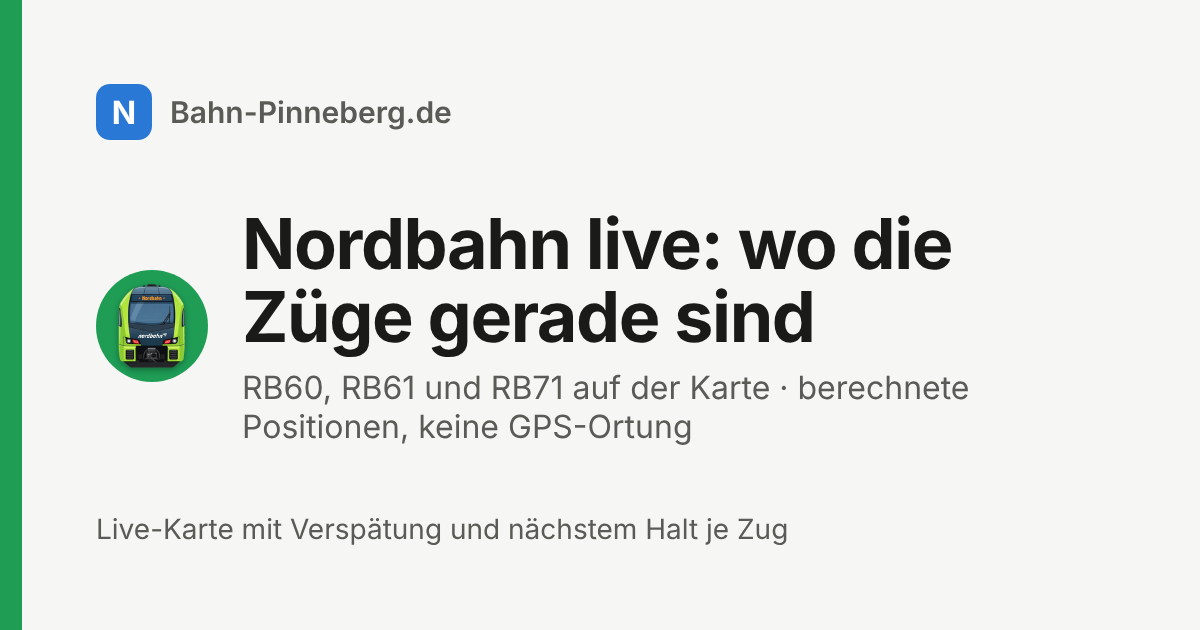
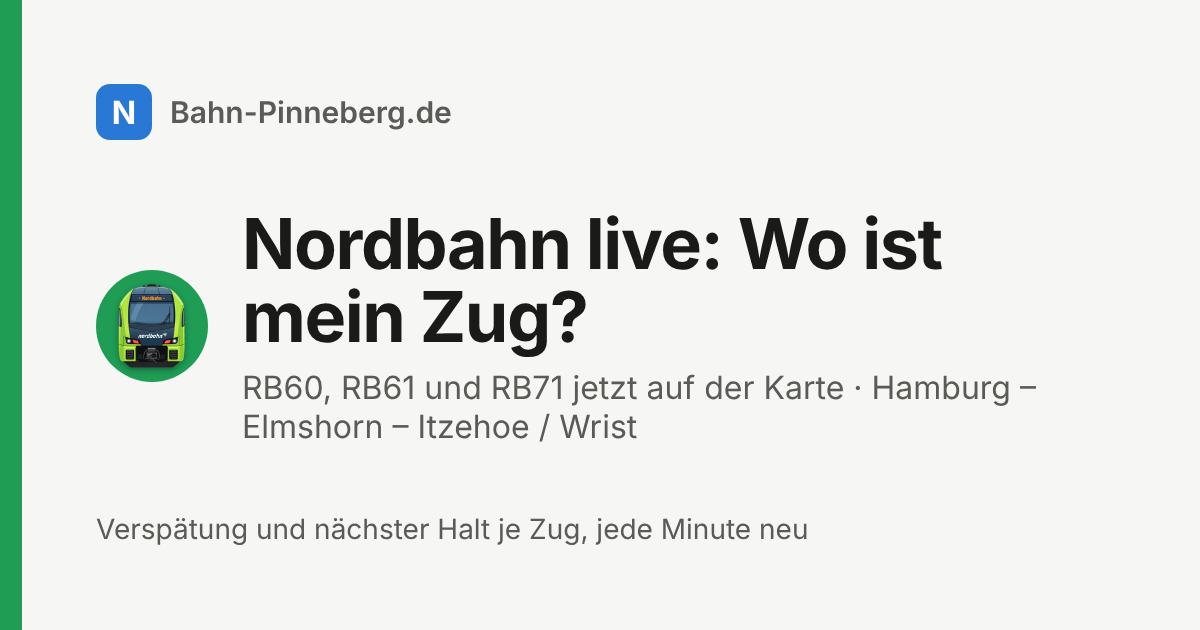
Live-Karte: Texte für Pendler und Suchmaschinen
Einleitung auf einen Satz, die Erklärung zu den Positionen auf eine Zeile
(ausführlich bleibt sie in den häufigen Fragen). Titel und Beschreibung
nach Suchabsicht: "Nordbahn live: Wo ist mein Zug?" mit Linien, Halten,
Verspätung. Fester Absatz unter der Liste mit Linien und allen Halten,
der auch ohne fahrende Züge etwas zu indexieren gibt. Vorschaubild mit
dem neuen Titel.

Claude-Session: https://claude.ai/code/session_01GatD8fMjH5dbRYAmHfHXnS

Changed region(s): [[0.185, 0.3317, 0.8017, 0.573], [0.0617, 0.8143, 0.6783, 0.8746], [0.185, 0.6032, 0.8633, 0.6937]]

diff --git a/dev/og/build.js b/dev/og/build.js
@@ -15,7 +15,7 @@ const LAGEN = [
   { name: 'warn',  color: '#fab219', icon: '!', title: 'Betrieb beeinträchtigt' },
   { name: 'alert', color: '#d33b3b', icon: '!', title: 'Störung auf der Strecke' },
   { name: 'info',  color: '#2a78d6', icon: 'i', title: 'Störungen, Abfahrten und Eilmeldungen' },
-  { name: 'karte', color: '#1f9d55', image: '../../karte/zug.png', title: 'Nordbahn live: wo die Züge gerade sind', sub: 'RB60, RB61 und RB71 auf der Karte · berechnete Positionen, keine GPS-Ortung', foot: 'Live-Karte mit Verspätung und nächstem Halt je Zug' },
+  { name: 'karte', color: '#1f9d55', image: '../../karte/zug.png', title: 'Nordbahn live: Wo ist mein Zug?', sub: 'RB60, RB61 und RB71 jetzt auf der Karte · Hamburg – Elmshorn – Itzehoe / Wrist', foot: 'Verspätung und nächster Halt je Zug, jede Minute neu' },
 ];
 const nur = process.argv[2] || '';
 

diff --git a/dashboard.css b/dashboard.css
@@ -612,6 +612,7 @@ button { font: inherit; color: inherit; }
 .zugliste__lage { font-size: 13px; color: var(--muted); }
 .zugliste__leer { margin: 0; color: var(--muted); font-size: 14.5px; }
 #karte-liste { padding: 6px 18px; }
+.section__note--text { font-size: 14px; line-height: 1.55; color: var(--ink-2); }
 #karte-liste .zugliste__leer { padding: 8px 0; }
 /* Popup eines Zuges */
 .karte-popup p { margin: 0 0 6px; }

diff --git a/karte/index.php b/karte/index.php
@@ -34,18 +34,23 @@ $heimatAnsicht = [];
 foreach (NORDBAHN_BAHNHOEFE as $id => $bhf) {
     $heimatAnsicht[$id] = $bhf['ast'] === 'stamm' ? 'hamburg' : $bhf['ast'];
 }
+// Fester Text unter der Liste mit allen Halten, auch wenn gerade kein Zug faehrt
+$halteNamen = ['Hamburg Hbf', 'Hamburg Dammtor', 'Hamburg-Altona'];
+foreach (NORDBAHN_BAHNHOEFE as $bhf) {
+    $halteNamen[] = $bhf['name'];
+}
 // Nur lesen: die Seite fragt den Monitor nicht selbst, das macht api/karte auf Anfrage des Scripts
 $stand = nordbahn_read_json(KA_CACHE);
 $zuege = is_array($stand) && is_array($stand['zuege'] ?? null) ? $stand['zuege'] : [];
 $standJson = json_encode($stand ?? ka_leer(), $jsonFlags) ?: 'null';
 $streckeJson = json_encode($strecke, $jsonFlags) ?: '{}';
 
-$title = 'Nordbahn live – Zugkarte RB60, RB61 und RB71 zwischen Hamburg, Elmshorn, Itzehoe und Wrist';
-$description = 'Wo die Züge der Nordbahn gerade sind: Live-Karte der RB60, RB61 und RB71 mit berechneten Positionen aus dem Stationsmonitor, Verspätung und nächstem Halt je Zug. Keine GPS-Ortung, Stand jede Minute.';
+$title = 'Nordbahn live: Wo ist mein Zug? RB60, RB61 und RB71 jetzt auf der Karte';
+$description = 'RB60, RB61 und RB71 live auf der Karte: wo jeder Zug der Nordbahn gerade ist, mit Verspätung und nächstem Halt zwischen Hamburg, Pinneberg, Elmshorn, Itzehoe und Wrist. Jede Minute aktuell.';
 $jsonLd = [
     '@context' => 'https://schema.org',
     '@type' => 'WebPage',
-    'name' => 'Nordbahn live – Zugkarte',
+    'name' => 'Nordbahn live: Wo ist mein Zug?',
     'description' => $description,
     'url' => SITE_URL . '/karte/',
     'inLanguage' => 'de',
@@ -107,7 +112,7 @@ function nb_karte_liste(array $zuege)
 <meta property="og:image" content="<?= SITE_URL ?>/og/karte.png">
 <meta property="og:image:width" content="1200">
 <meta property="og:image:height" content="630">
-<meta property="og:image:alt" content="Nordbahn live: Zugkarte der RB60, RB61 und RB71">
+<meta property="og:image:alt" content="Nordbahn live: Wo ist mein Zug? RB60, RB61 und RB71 auf der Karte">
 <meta name="twitter:card" content="summary_large_image">
 <meta name="twitter:title" content="<?= nb_e($title) ?>">
 <meta name="twitter:description" content="<?= nb_e($description) ?>">
@@ -134,7 +139,7 @@ function nb_karte_liste(array $zuege)
 	<div class="page-head">
 		<div>
 			<h1>Nordbahn live</h1>
-			<p class="page-head__lead">RB60 &middot; RB61 &middot; RB71 &ndash; wo die Z&uuml;ge gerade sind. Berechnete Positionen aus dem Stationsmonitor der Nordbahn, keine GPS-Ortung.</p>
+			<p class="page-head__lead">Wo die Z&uuml;ge der RB60, RB61 und RB71 gerade sind.</p>
 		</div>
 		<p class="freshness<?= $zuege ? '' : ' is-empty' ?>" id="karte-freshness" aria-live="polite"><span class="dot"></span><span id="karte-freshness-text"><?= is_array($stand) && !empty($stand['fetched_at']) ? 'Letzter Abruf ' . nb_e(nb_fmt_uhr(nb_ts($stand['fetched_at']))) : 'Noch kein Stand' ?></span></p>
 	</div>
@@ -155,7 +160,12 @@ function nb_karte_liste(array $zuege)
 			</ul>
 		</div>
 		<div class="card" id="karte-liste"><?= nb_karte_liste($zuege) ?></div>
-		<p class="section__note">Die Positionen sind gerechnet, nicht geortet: Aus dem Laufweg jedes Zuges (Soll-Zeit plus Prognose je Halt, Quelle Stationsmonitor der Nordbahn) ergibt sich, zwischen welchen Halten er gerade ist und wie weit. Zwischen zwei Abrufen bewegen sich die Z&uuml;ge nach diesen Zeiten weiter, eine neue Prognose kann sie springen lassen. <?= !empty($strecke['_quelle']) ? 'Der Streckenverlauf folgt den Gleisen laut OpenStreetMap.' : 'Der Streckenverlauf ist vereinfacht.' ?> Z&uuml;ge erscheinen bis 20 Minuten vor der Abfahrt am Startbahnhof. Kartendaten &copy; <a href="https://www.openstreetmap.org/copyright" rel="noopener">OpenStreetMap</a>-Mitwirkende.</p>
+		<p class="section__note">Positionen berechnet aus Fahrplan und Prognose der Nordbahn, nicht geortet; Z&uuml;ge erscheinen bis 20 Minuten vor der Abfahrt. Kartendaten &copy; <a href="https://www.openstreetmap.org/copyright" rel="noopener">OpenStreetMap</a>-Mitwirkende.</p>
+	</section>
+
+	<section class="section" aria-labelledby="ueber-h">
+		<h2 class="section__title" id="ueber-h">Welche Z&uuml;ge die Karte zeigt</h2>
+		<p class="section__note section__note--text">Alle Z&uuml;ge der Nordbahn auf den Linien RB61 Hamburg Hbf &ndash; Itzehoe, RB71 Hamburg Hbf &ndash; Wrist und RB60 Hamburg-Altona &ndash; Itzehoe, mit den Halten <?= nb_e(implode(', ', $halteNamen)) ?>. Je Zug stehen Lage, Versp&auml;tung, n&auml;chster Halt und Gleis dabei, die Karte aktualisiert sich jede Minute. St&ouml;rungen, Eilmeldungen und die n&auml;chsten Abfahrten am eigenen Bahnhof zeigt die <a href="<?= $root ?>">Startseite</a>, die P&uuml;nktlichkeit je Zug die <a href="<?= $root ?>statistik/">Statistik</a>.</p>
 	</section>
 </main>
 

diff --git a/changelog/index.php b/changelog/index.php
@@ -15,6 +15,7 @@ $assetVersion = (int) @filemtime(__DIR__ . '/../dashboard.css');
 
 $changelog = [
     ['2026-10-25', [
+        ['Live-Karte ohne Filter und mit weniger Text', 'Die Chips für Linie und Ausschnitt sind weg, die Karte öffnet im Abschnitt des Heimatbahnhofs. Die Erklärung, wie die Positionen entstehen, ist auf einen Satz geschrumpft und steht ausführlich in den häufigen Fragen. Unter der Liste nennt ein fester Absatz Linien und Halte.'],
         ['Live-Karte: Gleise und Nordbahn-Zug', 'Die Strecke folgt jetzt den echten Gleisen aus OpenStreetMap statt gerader Linien zwischen den Bahnhöfen, in den Farben der Linien, die dort fahren. Jeder Zug ist ein kleiner Nordbahn-Triebwagen mit Linienbadge und Verspätung daneben; wartende Züge stehen über ihrem Startbahnhof, angekommene darunter.'],
         ['Live-Karte: wo die Züge gerade sind', 'Neue Seite „Nordbahn live“ unter /karte/, verlinkt im Footer: eine Karte mit allen Zügen der RB60, RB61 und RB71, die unterwegs sind oder in den nächsten 20 Minuten starten. Jeder Zug ist ein Chip in Linienfarbe mit Verspätung; ein Tipp darauf zeigt Laufweg, nächsten Halt, Gleis und Hinweis. Der Kartenausschnitt richtet sich beim Laden nach dem Heimatbahnhof der Startseite (Hamburg – Elmshorn, der Ast nach Itzehoe oder nach Wrist), darunter die Liste aller Züge mit ihrer Lage. Die Positionen sind gerechnet, nicht geortet: aus dem Laufweg mit Prognose je Halt aus dem Stationsmonitor; zwischen zwei Abrufen fahren die Züge nach diesen Zeiten weiter. Die Karte selbst (Leaflet) liegt auf dem eigenen Server, nur die Kacheln kommen von OpenStreetMap. Auch als JSON unter api/karte.'],
     ]],
